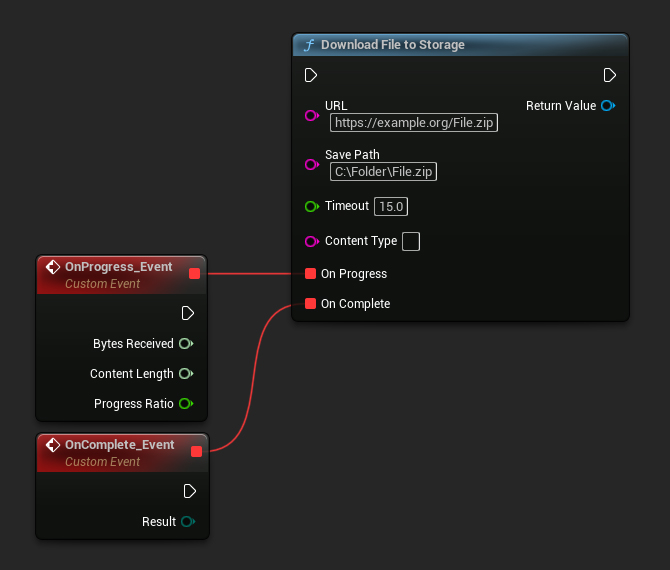
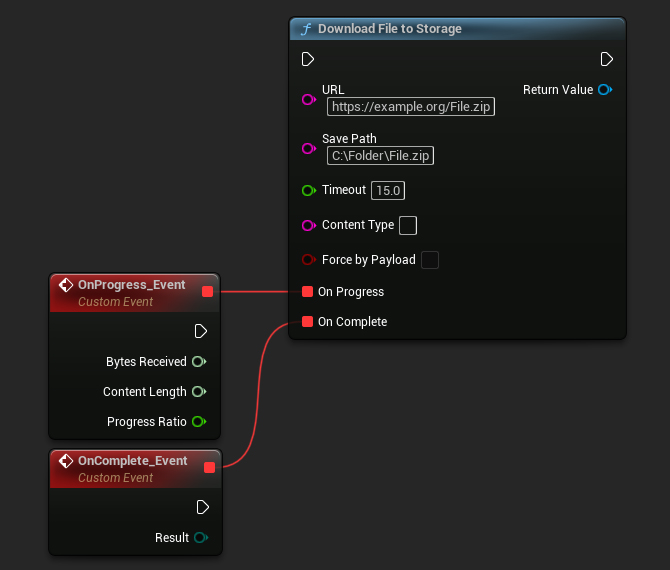
Add `bForceByPayload` parameter, adjust some logs and comments
Add an optional parameter `bForceByPayload` to force the download of content by payload in the `DownloadFileToStorage` and `DownloadFileToMemory` functions, adjust some logs and comments

Changed region(s): [[0.0299, 0.0298, 0.9552, 0.9842]]

diff --git a/Source/RuntimeFilesDownloader/Public/FileToMemoryDownloader.h b/Source/RuntimeFilesDownloader/Public/FileToMemoryDownloader.h
@@ -62,11 +62,12 @@ public:
 	 * @param URL The URL of the file to be downloaded
 	 * @param Timeout The maximum time to wait for the download to complete, in seconds. Works only for engine versions >= 4.26
 	 * @param ContentType A string to set in the Content-Type header field. Use a MIME type to specify the file type
-	 * @param OnProgress A delegate that will be called to broadcast the download progress
+	 * @param bForceByPayload If true, download the file regardless of the Content-Length header's presence (useful for servers without support for this header)
+	 * @param OnProgress Delegate for download progress updates
 	 * @param OnComplete Delegate for broadcasting the completion of the download
 	 */
 	UFUNCTION(BlueprintCallable, Category = "Runtime Files Downloader|Memory")
-	static UFileToMemoryDownloader* DownloadFileToMemory(const FString& URL, float Timeout, const FString& ContentType, const FOnDownloadProgress& OnProgress, const FOnFileToMemoryDownloadComplete& OnComplete);
+	static UFileToMemoryDownloader* DownloadFileToMemory(const FString& URL, float Timeout, const FString& ContentType, bool bForceByPayload, const FOnDownloadProgress& OnProgress, const FOnFileToMemoryDownloadComplete& OnComplete);
 
 	/**
 	 * Download the file and save it as a byte array in temporary memory (RAM). Suitable for use in C++
@@ -74,10 +75,11 @@ public:
 	 * @param URL The URL of the file to be downloaded
 	 * @param Timeout The maximum time to wait for the download to complete, in seconds. Works only for engine versions >= 4.26
 	 * @param ContentType A string to set in the Content-Type header field. Use a MIME type to specify the file type
-	 * @param OnProgress A delegate that will be called to broadcast the download progress
-	 * @param OnComplete A delegate that will be called to broadcast that the download is complete
+	 * @param bForceByPayload If true, download the file regardless of the Content-Length header's presence (useful for servers without support for this header)
+	 * @param OnProgress Delegate for download progress updates
+	 * @param OnComplete Delegate for broadcasting the completion of the download
 	 */
-	static UFileToMemoryDownloader* DownloadFileToMemory(const FString& URL, float Timeout, const FString& ContentType, const FOnDownloadProgressNative& OnProgress, const FOnFileToMemoryDownloadCompleteNative& OnComplete);
+	static UFileToMemoryDownloader* DownloadFileToMemory(const FString& URL, float Timeout, const FString& ContentType, bool bForceByPayload, const FOnDownloadProgressNative& OnProgress, const FOnFileToMemoryDownloadCompleteNative& OnComplete);
 
 	/**
 	 * Download the file and save it as a byte array in temporary memory (RAM). Continuously broadcasts the download result per chunk
@@ -86,7 +88,7 @@ public:
 	 * @param Timeout The maximum time to wait for the download to complete, in seconds. Works only for engine versions >= 4.26
 	 * @param ContentType A string to set in the Content-Type header field. Use a MIME type to specify the file type
 	 * @param MaxChunkSize The maximum size of each chunk to download in bytes
-	 * @param OnProgress A delegate that will be called to broadcast the download progress
+	 * @param OnProgress Delegate for download progress updates
 	 * @param OnChunkDownloadComplete Delegate for broadcasting the completion of the download. Will be called for each chunk
 	 * @param OnAllChunksDownloadComplete Delegate for broadcasting the completion of the download of all chunks
 	 */
@@ -100,7 +102,7 @@ public:
 	 * @param Timeout The maximum time to wait for the download to complete, in seconds. Works only for engine versions >= 4.26
 	 * @param ContentType A string to set in the Content-Type header field. Use a MIME type to specify the file type
 	 * @param MaxChunkSize The maximum size of each chunk to download in bytes
-	 * @param OnProgress A delegate that will be called to broadcast the download progress
+	 * @param OnProgress Delegate for download progress updates
 	 * @param OnChunkDownloadComplete Delegate for broadcasting the completion of the download. Will be called for each chunk
 	 * @param OnAllChunksDownloadComplete Delegate for broadcasting the completion of the download of all chunks
 	 */
@@ -117,8 +119,9 @@ protected:
 	 * @param URL The URL of the file to be downloaded
 	 * @param Timeout The maximum time to wait for the download to complete, in seconds. Works only for engine versions >= 4.26
 	 * @param ContentType A string to set in the Content-Type header field. Use a MIME type to specify the file type
+	 * @param bForceByPayload If true, download the file regardless of the Content-Length header's presence (useful for servers without support for this header)
 	 */
-	void DownloadFileToMemory(const FString& URL, float Timeout, const FString& ContentType);
+	void DownloadFileToMemory(const FString& URL, float Timeout, const FString& ContentType, bool bForceByPayload);
 
 	/**
 	 * Download the file and save it as a byte array in temporary memory (RAM). Continuously broadcasts the download result per chunk. Suitable for use in C++

diff --git a/Source/RuntimeFilesDownloader/Private/RuntimeChunkDownloader.cpp b/Source/RuntimeFilesDownloader/Private/RuntimeChunkDownloader.cpp
@@ -373,7 +373,7 @@ TFuture<FRuntimeChunkDownloaderResult> FRuntimeChunkDownloader::DownloadFileByCh
 		if (SharedThis.IsValid())
 		{
 			const float Progress = ContentSize <= 0 ? 0.0f : static_cast<float>(BytesReceived) / ContentSize;
-			UE_LOG(LogRuntimeFilesDownloader, Verbose, TEXT("Downloaded %d bytes of file chunk from %s. Range: {%lld; %lld}, Overall: %lld, Progress: %f"), BytesReceived, *Request->GetURL(), ChunkRange.X, ChunkRange.Y, ContentSize, Progress);
+			UE_LOG(LogRuntimeFilesDownloader, Log, TEXT("Downloaded %d bytes of file chunk from %s. Range: {%lld; %lld}, Overall: %lld, Progress: %f"), BytesReceived, *Request->GetURL(), ChunkRange.X, ChunkRange.Y, ContentSize, Progress);
 			OnProgress(BytesReceived, ContentSize);
 		}
 	});
@@ -418,7 +418,8 @@ TFuture<FRuntimeChunkDownloaderResult> FRuntimeChunkDownloader::DownloadFileByCh
 			PromisePtr->SetValue(FRuntimeChunkDownloaderResult{EDownloadToMemoryResult::DownloadFailed, TArray64<uint8>()});
 			return;
 		}
-		
+
+		UE_LOG(LogRuntimeFilesDownloader, Log, TEXT("Successfully downloaded file chunk from %s. Range: {%lld; %lld}, Overall: %lld"), *Request->GetURL(), ChunkRange.X, ChunkRange.Y, ContentLength);
 		PromisePtr->SetValue(FRuntimeChunkDownloaderResult{EDownloadToMemoryResult::Success, TArray64<uint8>(Response->GetContent())});
 	});
 
@@ -464,7 +465,7 @@ TFuture<FRuntimeChunkDownloaderResult> FRuntimeChunkDownloader::DownloadFileByPa
 		{
 			const int64 ContentLength = Request->GetContentLength();
 			const float Progress = ContentLength <= 0 ? 0.0f : static_cast<float>(BytesReceived) / ContentLength;
-			UE_LOG(LogRuntimeFilesDownloader, Verbose, TEXT("Downloaded %d bytes of file chunk from %s. Overall: %lld, Progress: %f"), BytesReceived, *Request->GetURL(), static_cast<int64>(Request->GetContentLength()), Progress);
+			UE_LOG(LogRuntimeFilesDownloader, Log, TEXT("Downloaded %d bytes of file chunk from %s by payload. Overall: %lld, Progress: %f"), BytesReceived, *Request->GetURL(), static_cast<int64>(Request->GetContentLength()), Progress);
 			OnProgress(BytesReceived, ContentLength);
 		}
 	});
@@ -475,38 +476,39 @@ TFuture<FRuntimeChunkDownloaderResult> FRuntimeChunkDownloader::DownloadFileByPa
 		TSharedPtr<FRuntimeChunkDownloader> SharedThis = WeakThisPtr.Pin();
 		if (!SharedThis.IsValid())
 		{
-			UE_LOG(LogRuntimeFilesDownloader, Warning, TEXT("Failed to download file chunk from %s: downloader has been destroyed"), *URL);
+			UE_LOG(LogRuntimeFilesDownloader, Warning, TEXT("Failed to download file from %s by payload: downloader has been destroyed"), *URL);
 			PromisePtr->SetValue(FRuntimeChunkDownloaderResult{EDownloadToMemoryResult::DownloadFailed, TArray64<uint8>()});
 			return;
 		}
 
 		if (SharedThis->bCanceled)
 		{
-			UE_LOG(LogRuntimeFilesDownloader, Warning, TEXT("Canceled file chunk download from %s"), *URL);
+			UE_LOG(LogRuntimeFilesDownloader, Warning, TEXT("Canceled file download from %s by payload"), *URL);
 			PromisePtr->SetValue(FRuntimeChunkDownloaderResult{EDownloadToMemoryResult::Cancelled, TArray64<uint8>()});
 			return;
 		}
 
 		if (!bSuccess || !Response.IsValid())
 		{
-			UE_LOG(LogRuntimeFilesDownloader, Error, TEXT("Failed to download file chunk from %s: request failed"), *Request->GetURL());
+			UE_LOG(LogRuntimeFilesDownloader, Error, TEXT("Failed to download file from %s by payload: request failed"), *Request->GetURL());
 			PromisePtr->SetValue(FRuntimeChunkDownloaderResult{EDownloadToMemoryResult::DownloadFailed, TArray64<uint8>()});
 			return;
 		}
 
 		if (Response->GetContentLength() <= 0)
 		{
-			UE_LOG(LogRuntimeFilesDownloader, Error, TEXT("Failed to download file chunk from %s: content length is 0"), *Request->GetURL());
+			UE_LOG(LogRuntimeFilesDownloader, Error, TEXT("Failed to download file from %s by payload: content length is 0"), *Request->GetURL());
 			PromisePtr->SetValue(FRuntimeChunkDownloaderResult{EDownloadToMemoryResult::DownloadFailed, TArray64<uint8>()});
 			return;
 		}
 
+		UE_LOG(LogRuntimeFilesDownloader, Log, TEXT("Successfully downloaded file from %s by payload. Overall: %lld"), *Request->GetURL(), static_cast<int64>(Response->GetContentLength()));
 		return PromisePtr->SetValue(FRuntimeChunkDownloaderResult{EDownloadToMemoryResult::SucceededByPayload, TArray64<uint8>(Response->GetContent())});
 	});
 
 	if (!HttpRequestRef->ProcessRequest())
 	{
-		UE_LOG(LogRuntimeFilesDownloader, Error, TEXT("Failed to download file chunk from %s: request failed"), *URL);
+		UE_LOG(LogRuntimeFilesDownloader, Error, TEXT("Failed to download file from %s by payload: request failed"), *URL);
 		return MakeFulfilledPromise<FRuntimeChunkDownloaderResult>(FRuntimeChunkDownloaderResult{EDownloadToMemoryResult::DownloadFailed, TArray64<uint8>()}).GetFuture();
 	}
 

diff --git a/Source/RuntimeFilesDownloader/Private/FileToStorageDownloader.cpp b/Source/RuntimeFilesDownloader/Private/FileToStorageDownloader.cpp
@@ -10,9 +10,9 @@
 #include "HAL/PlatformFileManager.h"
 #include "GenericPlatform/GenericPlatformFile.h"
 
-UFileToStorageDownloader* UFileToStorageDownloader::DownloadFileToStorage(const FString& URL, const FString& SavePath, float Timeout, const FString& ContentType, const FOnDownloadProgress& OnProgress, const FOnFileToStorageDownloadComplete& OnComplete)
+UFileToStorageDownloader* UFileToStorageDownloader::DownloadFileToStorage(const FString& URL, const FString& SavePath, float Timeout, const FString& ContentType, bool bForceByPayload, const FOnDownloadProgress& OnProgress, const FOnFileToStorageDownloadComplete& OnComplete)
 {
-	return DownloadFileToStorage(URL, SavePath, Timeout, ContentType, FOnDownloadProgressNative::CreateLambda([OnProgress](int64 BytesReceived, int64 ContentSize, float ProgressRatio)
+	return DownloadFileToStorage(URL, SavePath, Timeout, ContentType, bForceByPayload, FOnDownloadProgressNative::CreateLambda([OnProgress](int64 BytesReceived, int64 ContentSize, float ProgressRatio)
 	{
 		OnProgress.ExecuteIfBound(BytesReceived, ContentSize, ProgressRatio);
 	}), FOnFileToStorageDownloadCompleteNative::CreateLambda([OnComplete](EDownloadToStorageResult Result)
@@ -21,13 +21,13 @@ UFileToStorageDownloader* UFileToStorageDownloader::DownloadFileToStorage(const 
 	}));
 }
 
-UFileToStorageDownloader* UFileToStorageDownloader::DownloadFileToStorage(const FString& URL, const FString& SavePath, float Timeout, const FString& ContentType, const FOnDownloadProgressNative& OnProgress, const FOnFileToStorageDownloadCompleteNative& OnComplete)
+UFileToStorageDownloader* UFileToStorageDownloader::DownloadFileToStorage(const FString& URL, const FString& SavePath, float Timeout, const FString& ContentType, bool bForceByPayload, const FOnDownloadProgressNative& OnProgress, const FOnFileToStorageDownloadCompleteNative& OnComplete)
 {
 	UFileToStorageDownloader* Downloader = NewObject<UFileToStorageDownloader>(StaticClass());
 	Downloader->AddToRoot();
 	Downloader->OnDownloadProgress = OnProgress;
 	Downloader->OnDownloadComplete = OnComplete;
-	Downloader->DownloadFileToStorage(URL, SavePath, Timeout, ContentType);
+	Downloader->DownloadFileToStorage(URL, SavePath, Timeout, ContentType, bForceByPayload);
 	return Downloader;
 }
 
@@ -41,7 +41,7 @@ bool UFileToStorageDownloader::CancelDownload()
 	return false;
 }
 
-void UFileToStorageDownloader::DownloadFileToStorage(const FString& URL, const FString& SavePath, float Timeout, const FString& ContentType)
+void UFileToStorageDownloader::DownloadFileToStorage(const FString& URL, const FString& SavePath, float Timeout, const FString& ContentType, bool bForceByPayload)
 {
 	if (URL.IsEmpty())
 	{
@@ -65,16 +65,27 @@ void UFileToStorageDownloader::DownloadFileToStorage(const FString& URL, const F
 		Timeout = 0;
 	}
 
-	FileSavePath = SavePath;
-
-	RuntimeChunkDownloaderPtr = MakeShared<FRuntimeChunkDownloader>();
-	RuntimeChunkDownloaderPtr->DownloadFile(URL, Timeout, ContentType, TNumericLimits<TArray<uint8>::SizeType>::Max(), [this](int64 BytesReceived, int64 ContentSize)
+	auto OnProgress = [this](int64 BytesReceived, int64 ContentSize)
 	{
 		BroadcastProgress(BytesReceived, ContentSize, ContentSize <= 0 ? 0 : static_cast<float>(BytesReceived) / ContentSize);
-	}).Next([this](FRuntimeChunkDownloaderResult Result) mutable
+	};
+
+	auto OnResult = [this](FRuntimeChunkDownloaderResult&& Result) mutable
 	{
-		OnComplete_Internal(Result.Result, Result.Data);
-	});
+		OnComplete_Internal(Result.Result, MoveTemp(Result.Data));
+	};
+
+	FileSavePath = SavePath;
+	RuntimeChunkDownloaderPtr = MakeShared<FRuntimeChunkDownloader>();
+
+	if (bForceByPayload)
+	{
+		RuntimeChunkDownloaderPtr->DownloadFileByPayload(URL, Timeout, ContentType, OnProgress).Next(OnResult);
+	}
+	else
+	{
+		RuntimeChunkDownloaderPtr->DownloadFile(URL, Timeout, ContentType, TNumericLimits<TArray<uint8>::SizeType>::Max(), OnProgress).Next(OnResult);
+	}
 }
 
 void UFileToStorageDownloader::OnComplete_Internal(EDownloadToMemoryResult Result, TArray64<uint8> DownloadedContent)

diff --git a/Source/RuntimeFilesDownloader/Private/FileToMemoryDownloader.cpp b/Source/RuntimeFilesDownloader/Private/FileToMemoryDownloader.cpp
@@ -35,9 +35,9 @@ UFileToMemoryDownloader* UFileToMemoryDownloader::DownloadFileToMemoryPerChunk(c
 	return Downloader;
 }
 
-UFileToMemoryDownloader* UFileToMemoryDownloader::DownloadFileToMemory(const FString& URL, float Timeout, const FString& ContentType, const FOnDownloadProgress& OnProgress, const FOnFileToMemoryDownloadComplete& OnComplete)
+UFileToMemoryDownloader* UFileToMemoryDownloader::DownloadFileToMemory(const FString& URL, float Timeout, const FString& ContentType, bool bForceByPayload, const FOnDownloadProgress& OnProgress, const FOnFileToMemoryDownloadComplete& OnComplete)
 {
-	return DownloadFileToMemory(URL, Timeout, ContentType, FOnDownloadProgressNative::CreateLambda([OnProgress](int64 BytesReceived, int64 ContentSize, float Progress)
+	return DownloadFileToMemory(URL, Timeout, ContentType, bForceByPayload, FOnDownloadProgressNative::CreateLambda([OnProgress](int64 BytesReceived, int64 ContentSize, float Progress)
 	{
 		OnProgress.ExecuteIfBound(BytesReceived, ContentSize, Progress);
 	}), FOnFileToMemoryDownloadCompleteNative::CreateLambda([OnComplete](const TArray64<uint8>& DownloadedContent, EDownloadToMemoryResult Result)
@@ -52,13 +52,13 @@ UFileToMemoryDownloader* UFileToMemoryDownloader::DownloadFileToMemory(const FSt
 	}));
 }
 
-UFileToMemoryDownloader* UFileToMemoryDownloader::DownloadFileToMemory(const FString& URL, float Timeout, const FString& ContentType, const FOnDownloadProgressNative& OnProgress, const FOnFileToMemoryDownloadCompleteNative& OnComplete)
+UFileToMemoryDownloader* UFileToMemoryDownloader::DownloadFileToMemory(const FString& URL, float Timeout, const FString& ContentType, bool bForceByPayload, const FOnDownloadProgressNative& OnProgress, const FOnFileToMemoryDownloadCompleteNative& OnComplete)
 {
 	UFileToMemoryDownloader* Downloader = NewObject<UFileToMemoryDownloader>(StaticClass());
 	Downloader->AddToRoot();
 	Downloader->OnDownloadProgress = OnProgress;
 	Downloader->OnDownloadComplete = OnComplete;
-	Downloader->DownloadFileToMemory(URL, Timeout, ContentType);
+	Downloader->DownloadFileToMemory(URL, Timeout, ContentType, bForceByPayload);
 	return Downloader;
 }
 
@@ -72,7 +72,7 @@ bool UFileToMemoryDownloader::CancelDownload()
 	return false;
 }
 
-void UFileToMemoryDownloader::DownloadFileToMemory(const FString& URL, float Timeout, const FString& ContentType)
+void UFileToMemoryDownloader::DownloadFileToMemory(const FString& URL, float Timeout, const FString& ContentType, bool bForceByPayload)
 {
 	if (URL.IsEmpty())
 	{
@@ -88,15 +88,26 @@ void UFileToMemoryDownloader::DownloadFileToMemory(const FString& URL, float Tim
 		Timeout = 0;
 	}
 
-	RuntimeChunkDownloaderPtr = MakeShared<FRuntimeChunkDownloader>();
-	RuntimeChunkDownloaderPtr->DownloadFile(URL, Timeout, ContentType, TNumericLimits<TArray<uint8>::SizeType>::Max(), [this](int64 BytesReceived, int64 ContentSize)
+	auto OnProgress = [this](int64 BytesReceived, int64 ContentSize)
 	{
 		BroadcastProgress(BytesReceived, ContentSize, ContentSize <= 0 ? 0 : static_cast<float>(BytesReceived) / ContentSize);
-	}).Next([this](FRuntimeChunkDownloaderResult&& Result) mutable
+	};
+
+	auto OnResult = [this](FRuntimeChunkDownloaderResult&& Result) mutable
 	{
 		RemoveFromRoot();
 		OnDownloadComplete.ExecuteIfBound(Result.Data, Result.Result);
-	});
+	};
+
+	RuntimeChunkDownloaderPtr = MakeShared<FRuntimeChunkDownloader>();
+	if (bForceByPayload)
+	{
+		RuntimeChunkDownloaderPtr->DownloadFileByPayload(URL, Timeout, ContentType, OnProgress).Next(OnResult);
+	}
+	else
+	{
+		RuntimeChunkDownloaderPtr->DownloadFile(URL, Timeout, ContentType, TNumericLimits<TArray<uint8>::SizeType>::Max(), OnProgress).Next(OnResult);
+	}
 }
 
 void UFileToMemoryDownloader::DownloadFileToMemoryPerChunk(const FString& URL, float Timeout, const FString& ContentType, int64 MaxChunkSize)

diff --git a/Source/RuntimeFilesDownloader/Public/FileToStorageDownloader.h b/Source/RuntimeFilesDownloader/Public/FileToStorageDownloader.h
@@ -49,11 +49,12 @@ public:
 	 * @param SavePath The absolute path and file name to save the downloaded file
 	 * @param Timeout The maximum time to wait for the download to complete, in seconds. Works only for engine versions >= 4.26
 	 * @param ContentType A string to set in the Content-Type header field. Use a MIME type to specify the file type
-	 * @param OnProgress A delegate that will be called to broadcast the download progress
-	 * @param OnComplete A delegate that will be called to broadcast that the download is complete
+	 * @param bForceByPayload If true, download the file regardless of the Content-Length header's presence (useful for servers without support for this header)
+	 * @param OnProgress Delegate for download progress updates
+	 * @param OnComplete Delegate for broadcasting the completion of the download
 	 */
 	UFUNCTION(BlueprintCallable, Category = "Runtime Files Downloader|Storage")
-	static UFileToStorageDownloader* DownloadFileToStorage(const FString& URL, const FString& SavePath, float Timeout, const FString& ContentType, const FOnDownloadProgress& OnProgress, const FOnFileToStorageDownloadComplete& OnComplete);
+	static UFileToStorageDownloader* DownloadFileToStorage(const FString& URL, const FString& SavePath, float Timeout, const FString& ContentType, bool bForceByPayload, const FOnDownloadProgress& OnProgress, const FOnFileToStorageDownloadComplete& OnComplete);
 
 	/**
 	 * Download the file and save it to storage. Suitable for use in C++
@@ -62,10 +63,11 @@ public:
 	 * @param SavePath The absolute path and file name to save the downloaded file
 	 * @param Timeout The maximum time to wait for the download to complete, in seconds. Works only for engine versions >= 4.26
 	 * @param ContentType A string to set in the Content-Type header field. Use a MIME type to specify the file type
-	 * @param OnProgress A delegate that will be called to broadcast the download progress
-	 * @param OnComplete A delegate that will be called to broadcast that the download is complete
+	 * @param bForceByPayload If true, download the file regardless of the Content-Length header's presence (useful for servers without support for this header)
+	 * @param OnProgress Delegate for download progress updates
+	 * @param OnComplete Delegate for broadcasting the completion of the download
 	 */
-	static UFileToStorageDownloader* DownloadFileToStorage(const FString& URL, const FString& SavePath, float Timeout, const FString& ContentType, const FOnDownloadProgressNative& OnProgress, const FOnFileToStorageDownloadCompleteNative& OnComplete);
+	static UFileToStorageDownloader* DownloadFileToStorage(const FString& URL, const FString& SavePath, float Timeout, const FString& ContentType, bool bForceByPayload, const FOnDownloadProgressNative& OnProgress, const FOnFileToStorageDownloadCompleteNative& OnComplete);
 
 	//~ Begin UBaseFilesDownloader Interface
 	virtual bool CancelDownload() override;
@@ -79,8 +81,9 @@ protected:
 	 * @param SavePath The absolute path and file name to save the downloaded file
 	 * @param Timeout The maximum time to wait for the download to complete, in seconds. Works only for engine versions >= 4.26
 	 * @param ContentType A string to set in the Content-Type header field. Use a MIME type to specify the file type
+	 * @param bForceByPayload If true, the file will be downloaded by payload even if the Content-Length header is present in the response
 	 */
-	void DownloadFileToStorage(const FString& URL, const FString& SavePath, float Timeout, const FString& ContentType);
+	void DownloadFileToStorage(const FString& URL, const FString& SavePath, float Timeout, const FString& ContentType, bool bForceByPayload);
 
 	/**
 	 * Internal callback for when file downloading has finished
